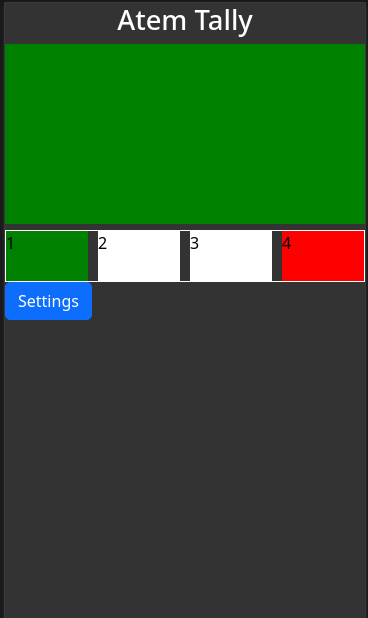
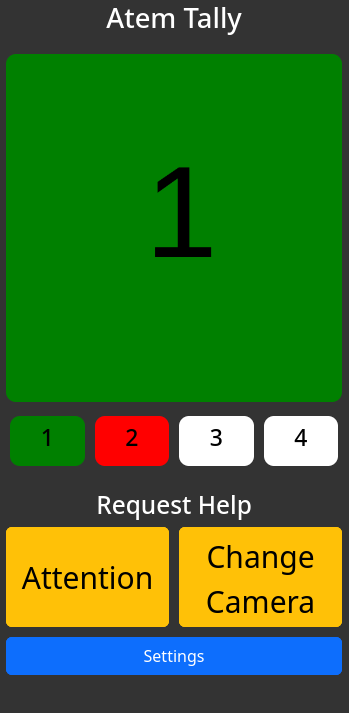
Improve UI

diff --git a/public/index.html b/public/index.html
@@ -11,53 +11,66 @@
           integrity="sha384-KK94CHFLLe+nY2dmCWGMq91rCGa5gtU4mk92HdvYe+M/SXH301p5ILy+dN9+nJOZ" crossorigin="anonymous">
 </head>
 <body>
-<h1>Atem Tally</h1>
-<div class="alert alert-danger" role="alert" id="errorAlert">
-    A simple danger alert—check it out!
-</div>
 
+<div class="container flex">
+    <h1>Atem Tally</h1>
 
-<div>
-    <video id="video" class="video" autoplay muted></video>
-    <div id="cameras">
-        <div id="camera1" class="cameras">1</div>
-        <div id="camera2" class="cameras">2</div>
-        <div id="camera3" class="cameras">3</div>
-        <div id="camera4" class="cameras">4</div>
+    <div class="alert alert-danger" role="alert" id="errorAlert">
+        A simple danger alert—check it out!
     </div>
-</div>
 
 
-<canvas id="canvas" class="video"></canvas>
+    <video id="video" class="video" autoplay muted></video> <!-- main tally light-->
+
+    <div id="cameras"> <!-- camera tally lights for all cameras -->
+        <div id="camera1" class="cameras"><h3>1</h3></div>
+        <div id="camera2" class="cameras"><h3>2</h3></div>
+        <div id="camera3" class="cameras"><h3>3</h3></div>
+        <div id="camera4" class="cameras"><h3>4</h3></div>
+    </div>
 
 
-<div id="help">
-    <button id="helpButton" class="btn btn-warning" onclick="Connection.instance.sendAttention()">Attention</button>
-    <button id="helpButton2" class="btn btn-warning" onclick="Connection.instance.sendCameraChange()">Change Camera</button>
-</div>
+    <canvas id="canvas" class="video">
+        <h2>1</h2>
+    </canvas> <!-- hidden canvas element to draw the video-->
 
-<button id="settings" class="btn btn-primary" onclick="openSettings()">Settings</button>
 
-<div id="settingsPage">
-    <div class="card">
-        <div class="card-header">
-            <h3 class="card-title">Settings</h3>
+    <div id="help">
+        <h2>Request Help </h2>
+        <div id="helpCon">
+            <button id="helpButton" class="btn btn-warning bigBtn" onclick="Connection.instance.sendAttention()">
+                Attention
+            </button>
+            <button id="helpButton2" class="btn btn-warning bigBtn" onclick="Connection.instance.sendCameraChange()">
+                Change
+                Camera
+            </button>
         </div>
-        <div class="card-body">
-            <div class="input-group mb-3">
-                <span class="input-group-text" id="basic-addon1">CameraID</span>
-                <input type="text" id="settingsCameraID" class="form-control" placeholder="CameraID" aria-label="CameraID"
-                       aria-describedby="basic-addon1" value="1">
+    </div>
+
+    <button id="settings" class="btn btn-primary" onclick="openSettings()">Settings</button>
+
+    <div id="settingsPage">
+        <div class="card">
+            <div class="card-header">
+                <h3 class="card-title">Settings</h3>
+            </div>
+            <div class="card-body">
+                <div class="input-group mb-3">
+                    <span class="input-group-text" id="basic-addon1">CameraID</span>
+                    <input type="text" id="settingsCameraID" class="form-control" placeholder="CameraID"
+                           aria-label="CameraID"
+                           aria-describedby="basic-addon1" value="1">
+                </div>
+            </div>
+            <div class="card-footer">
+                <button id="saveSettings" class="btn btn-primary" onclick="saveSettings()">Save</button>
+                <button id="closeSettings" class="btn btn-primary" onclick="closeSettings()">Cancel</button>
             </div>
         </div>
-        <div class="card-footer">
-            <button id="saveSettings" class="btn btn-primary" onclick="saveSettings()">Save</button>
-            <button id="closeSettings" class="btn btn-primary" onclick="closeSettings()">Cancel</button>
-        </div>
     </div>
+
 </div>
-
-
 <script src="script.js"></script>
 </body>
 
@@ -72,6 +85,10 @@
 
     .video {
         width: 100%;
+        height: 100%;
+        object-fit: cover;
+        border-radius: 10px;
+        flex-grow: 2;
     }
 
     #canvas {
@@ -80,14 +97,17 @@
 
     h1 {
         text-align: center;
+        margin: 10px;
     }
 
     #cameras {
         display: flex;
         flex-direction: row;
         justify-content: space-around;
-        border: 1px solid #fff;
+        /*border: 1px solid #fff;*/
         gap: 10px;
+        border-radius: 10px;
+        padding: 4px;
     }
 
     #cameras div {
@@ -95,7 +115,12 @@
         width: 25%;
         height: 50px;
         color: #000;
+        border-radius: 10px;
+        display: flex;
+        justify-content: center;
+        align-items: center;
     }
+
 
     #settingsPage {
         display: none;
@@ -109,6 +134,41 @@
 
     #errorAlert {
         display: none;
+    }
+
+    #help {
+        margin-top: 10px;
+    }
+
+    #helpCon {
+        display: flex;
+        flex-direction: row;
+        justify-content: space-around;
+        gap: 10px;
+    }
+
+    #help h2 {
+        text-align: center;
+    }
+
+    .bigBtn {
+        width: 100%;
+        height: 100px;
+        font-size: 30px;
+    }
+
+    .flex {
+        display: flex;
+        flex-direction: column;
+        justify-content: space-between;
+        height: 90vh;
+        /*margin-bottom: 30px;*/
+        gap: 10px;
+    }
+
+    #canvas h2 {
+        text-align: center;
+        z-index: 100;
     }
 
 </style>

diff --git a/public/script.js b/public/script.js
@@ -1,7 +1,18 @@
 const cameras = document.getElementsByClassName('cameras');
 const video = document.getElementById('video');
 const canvas = document.getElementById('canvas');
+let dpi = window.devicePixelRatio;
 const context = canvas.getContext('2d');
+
+// Fix for blurry canvas
+let style_height = +getComputedStyle(canvas).getPropertyValue("height").slice(0, -2);
+let style_width = +getComputedStyle(canvas).getPropertyValue("width").slice(0, -2);
+canvas.setAttribute('height', style_height * dpi);
+canvas.setAttribute('width', style_width * dpi);
+
+const x = canvas.width / 2 -50;
+const y = canvas.height / 2+50;
+
 
 /**
  * Manage connection to server
@@ -75,6 +86,9 @@ class Connection {
             context.fillStyle = 'white';
         }
         context.fillRect(0, 0, canvas.width, canvas.height);
+        context.fillStyle = 'black';
+        context.font = '225px Arial';
+        context.fillText(Connection.instance.options.cameraID, x, y);
         video.srcObject = canvas.captureStream();
 
         for (let i = 0; i < cameras.length; i++) {
